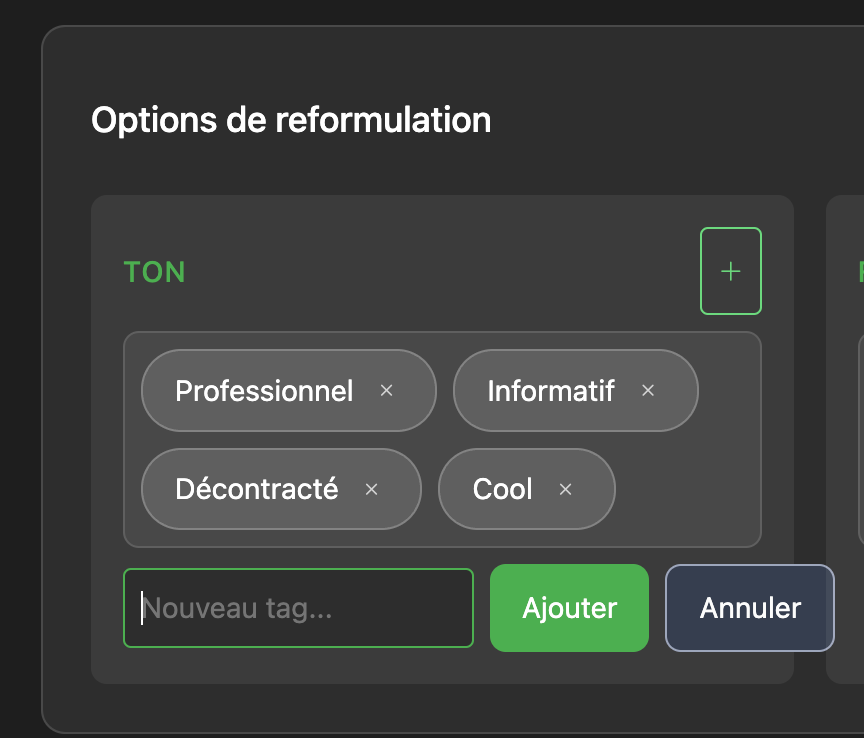
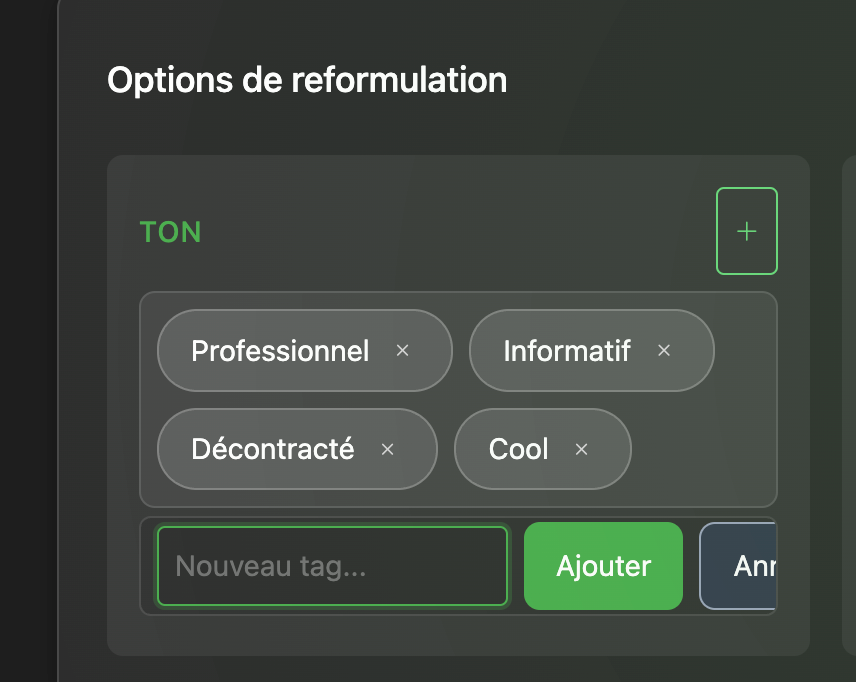
Agent query: Est-ce que le bouton 'Annuler' est maintenant visible ? L'interface est-elle plus agréable visuellement ?

diff --git a/static/css/style.css b/static/css/style.css
@@ -680,9 +680,9 @@ h5 {
 }
 
 .tag-input-container.active {
-    max-height: 50px;
+    max-height: 60px;
     opacity: 1;
-    padding: 0.5rem;
+    padding: 0.75rem;
     border: 1px solid rgba(255, 255, 255, 0.1);
 }
 
